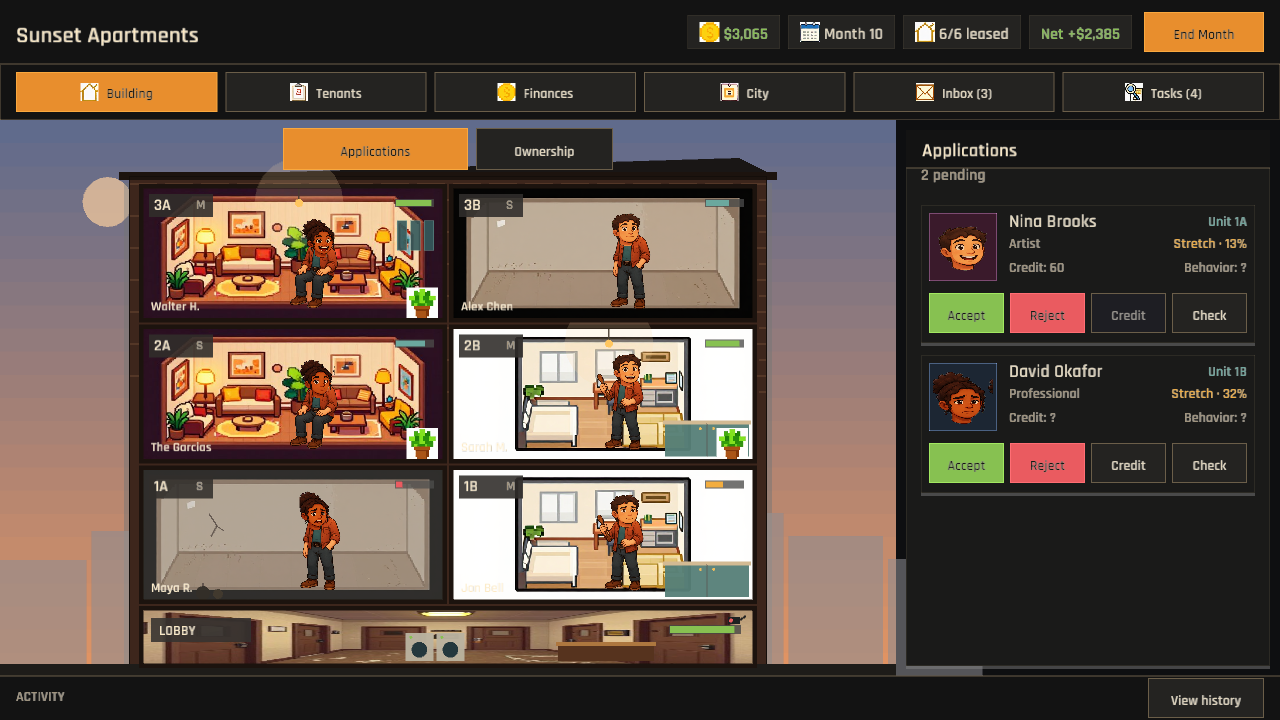
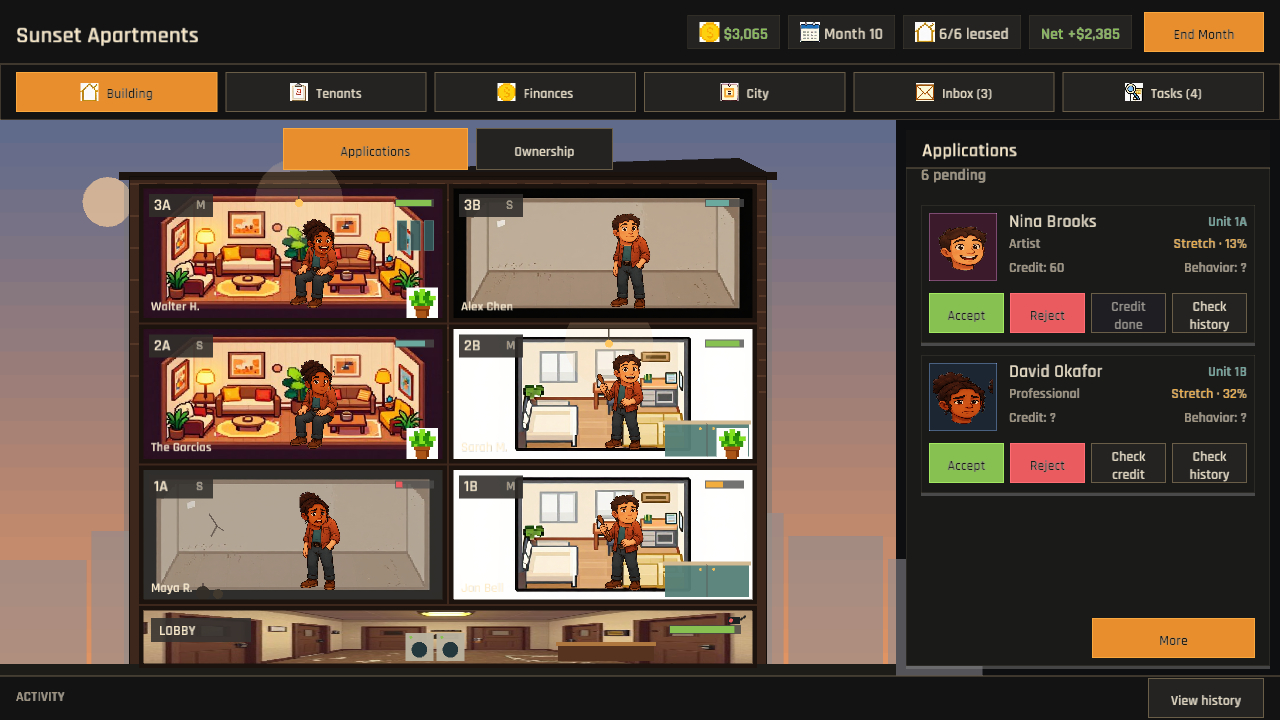
Every applicant reaches the leasing desk before the month turns (paged screening workflow)
Replace the unreachable 'more applications' dead end with deterministic Earlier and More controls backed by transient page state. Seed six varied showcase applicants so both pages, completed checks, and unchecked states remain reviewable.

Clarify credit and history action labels, keep completed checks visibly disabled, and introduce a compact card hierarchy that prioritizes applicant name, unit, and qualification at 640x480 without overlapping metadata or touch actions.

Verified with 131 passing tests (1 ignored), first-page, later-page, and 640x480 applicant captures, formatting, diff and Rust line-count checks, and publish.ps1 for Windows, WebGL, and preview deployment.

Changed region(s): [[0.8438, 0.8556, 1.0, 0.9167], [0.8438, 0.6111, 0.9688, 0.6722], [0.8438, 0.3972, 0.9688, 0.4583]]

diff --git a/src/ui/application_panel.rs b/src/ui/application_panel.rs
@@ -10,6 +10,7 @@ pub fn draw_application_panel(
     building_id: u32,
     building: &Building,
     filter_apartment_id: Option<u32>,
+    requested_page: usize,
     offset_x: f32,
     assets: &AssetManager,
 ) -> Option<UiAction> {
@@ -47,19 +48,24 @@ pub fn draw_application_panel(
     );
     y += 25.0;
 
+    let available_h = panel_rect.bottom() - y - 50.0;
+    let action_width = panel_rect.w - 46.0;
+    let columns = if action_width >= 4.0 * 54.0 + 3.0 * 6.0 {
+        4
+    } else {
+        2
+    };
+    let card_h = 88.0 + 4_usize.div_ceil(columns) as f32 * 46.0 + 4.0;
+    let page_size = ((available_h / (card_h + 12.0)).floor() as usize).max(1);
+    let page_count = filtered_apps.len().div_ceil(page_size).max(1);
+    let page = requested_page.min(page_count - 1);
     let mut action = None;
-    for (index, application) in filtered_apps {
-        if y > panel_rect.y + panel_rect.h - 60.0 {
-            draw_ui_text(
-                "... more applications",
-                content_x,
-                y,
-                14.0,
-                colors::TEXT_DIM(),
-            );
-            break;
-        }
-
+    for (index, application) in filtered_apps
+        .iter()
+        .skip(page * page_size)
+        .take(page_size)
+        .copied()
+    {
         let (card_action, card_h) = draw_application_card(
             index,
             application,
@@ -73,6 +79,33 @@ pub fn draw_application_panel(
             action = card_action;
         }
         y += card_h + 12.0;
+    }
+    if page_count > 1 {
+        use crate::ui::theme::Tone;
+        use crate::ui::widgets::button_at;
+        let controls_y = panel_rect.bottom() - 48.0;
+        let gap = 8.0;
+        let button_w = (panel_rect.w - 30.0 - gap) * 0.5;
+        if page > 0
+            && button_at(
+                Rect::new(content_x, controls_y, button_w, 40.0),
+                "Earlier",
+                true,
+                Tone::Secondary,
+            )
+        {
+            action = Some(UiAction::SetApplicationPage { page: page - 1 });
+        }
+        if page + 1 < page_count
+            && button_at(
+                Rect::new(content_x + button_w + gap, controls_y, button_w, 40.0),
+                "More",
+                true,
+                Tone::Primary,
+            )
+        {
+            action = Some(UiAction::SetApplicationPage { page: page + 1 });
+        }
     }
 
     action
@@ -138,8 +171,9 @@ fn draw_application_card(
     use crate::ui::theme::Tone;
     use crate::ui::widgets::button_at;
 
-    let portrait_size = 68.0;
-    let text_x = x + portrait_size + 20.0;
+    let compact = width < 260.0;
+    let portrait_size = if compact { 60.0 } else { 68.0 };
+    let text_x = x + portrait_size + if compact { 16.0 } else { 20.0 };
 
     let btn_y = y + 88.0;
     let bh = 40.0;
@@ -173,7 +207,14 @@ fn draw_application_card(
             archetype_color(&application.tenant.archetype),
         );
     }
-    draw_application_text(application, building, text_x, y, x + width - 8.0 - text_x);
+    draw_application_text(
+        application,
+        building,
+        text_x,
+        y,
+        x + width - 8.0 - text_x,
+        compact,
+    );
 
     let specs: [(&str, bool, Tone, UiAction); 4] = [
         (
@@ -193,7 +234,11 @@ fn draw_application_card(
             },
         ),
         (
-            "Credit",
+            if application.revealed_reliability {
+                "Credit done"
+            } else {
+                "Check credit"
+            },
             !application.revealed_reliability,
             Tone::Secondary,
             UiAction::CreditCheck {
@@ -201,7 +246,11 @@ fn draw_application_card(
             },
         ),
         (
-            "Check",
+            if application.revealed_behavior {
+                "History done"
+            } else {
+                "Check history"
+            },
             !application.revealed_behavior,
             Tone::Secondary,
             UiAction::BackgroundCheck {
@@ -230,6 +279,7 @@ fn draw_application_text(
     text_x: f32,
     y: f32,
     text_width: f32,
+    compact: bool,
 ) {
     use macroquad_toolkit::ui::{measure_ui_text, truncate_text_to_width};
 
@@ -238,6 +288,36 @@ fn draw_application_text(
         .map(|apartment| format!("Unit {}", apartment.unit_number))
         .unwrap_or_else(|| "Unknown unit".to_string());
     let unit_w = measure_ui_text(&unit, None, 14, 1.0).width;
+    if compact {
+        draw_ui_text(
+            &truncate_text_to_width(&application.tenant.name, text_width, 18.0),
+            text_x,
+            y + 22.0,
+            18.0,
+            colors::TEXT(),
+        );
+        draw_ui_text(&unit, text_x, y + 43.0, 14.0, colors::ACCENT());
+        let fit_text = if application.match_result.meets_minimum {
+            format!("Qualified · {}%", application.match_result.score)
+        } else {
+            format!("Stretch · {}%", application.match_result.score)
+        };
+        let score_color = if application.match_result.score >= 70 {
+            colors::POSITIVE()
+        } else if application.match_result.score >= 50 {
+            colors::ACCENT()
+        } else {
+            colors::WARNING()
+        };
+        draw_ui_text(
+            &truncate_text_to_width(&fit_text, text_width, 14.0),
+            text_x,
+            y + 65.0,
+            14.0,
+            score_color,
+        );
+        return;
+    }
     draw_ui_text(
         &truncate_text_to_width(
             &application.tenant.name,

diff --git a/src/game.rs b/src/game.rs
@@ -92,6 +92,13 @@ impl Game {
                     state.selection = crate::ui::Selection::Applications(None);
                 }
             }
+            "applications_more_showcase" | "applications_more_tiny" => {
+                self.seed_gameplay_capture(true);
+                if let GameState::Gameplay(state) = &mut self.state {
+                    state.selection = crate::ui::Selection::Applications(None);
+                    state.application_page = 1;
+                }
+            }
             "ownership_showcase" | "ownership_compact" | "ownership_wide" | "ownership_tiny" => {
                 self.seed_gameplay_capture(true);
                 if let GameState::Gameplay(state) = &mut self.state {
@@ -462,6 +469,17 @@ fn seed_showcase_residents(state: &mut crate::state::GameplayState) {
             "David Okafor",
             TenantArchetype::Professional,
             1,
+            false,
+            false,
+        ),
+        (22, "Priya Shah", TenantArchetype::Student, 2, true, true),
+        (23, "Elena Ruiz", TenantArchetype::Family, 3, false, true),
+        (24, "George Wu", TenantArchetype::Elderly, 4, true, false),
+        (
+            25,
+            "Amara Mensah",
+            TenantArchetype::Professional,
+            5,
             false,
             false,
         ),

diff --git a/src/state/gameplay.rs b/src/state/gameplay.rs
@@ -131,6 +131,8 @@ pub struct GameplayState {
     #[serde(skip)]
     pub pending_property_purchase: Option<u32>,
     #[serde(skip)]
+    pub application_page: usize,
+    #[serde(skip)]
     pub show_pause_menu: bool,
     #[serde(skip)]
     pub activity_drawer_open: bool,
@@ -291,6 +293,7 @@ impl GameplayState {
             market_page: 0,
             selected_neighborhood_id: None,
             pending_property_purchase: None,
+            application_page: 0,
             show_pause_menu: false,
             activity_drawer_open: false,
             is_fullscreen: false,
@@ -389,6 +392,7 @@ impl GameplayState {
         self.market_page = 0;
         self.selected_neighborhood_id = None;
         self.pending_property_purchase = None;
+        self.application_page = 0;
         self.show_pause_menu = false;
         self.activity_drawer_open = false;
         self.pending_quit_to_menu = false;

diff --git a/src/state/gameplay_actions.rs b/src/state/gameplay_actions.rs
@@ -24,6 +24,7 @@ impl GameplayState {
                 self.view_mode = ViewMode::Building;
                 self.selection = Selection::Applications(filter);
                 self.panel_scroll_offset = 0.0;
+                self.application_page = 0;
             }
             UiAction::SelectHallway => {
                 self.selection = Selection::Hallway;
@@ -322,6 +323,9 @@ impl GameplayState {
             }
             UiAction::SetTasksPage { page } => {
                 self.tasks_page = page;
+            }
+            UiAction::SetApplicationPage { page } => {
+                self.application_page = page;
             }
             UiAction::AcceptMission { mission_id } => {
                 if !self.missions.accept_mission(mission_id, self.current_tick) {

diff --git a/src/state/gameplay_views.rs b/src/state/gameplay_views.rs
@@ -242,6 +242,7 @@ impl GameplayState {
                     self.active_building_id(),
                     &self.building,
                     filter,
+                    self.application_page,
                     0.0,
                     assets,
                 ) {

diff --git a/src/ui.rs b/src/ui.rs
@@ -105,6 +105,9 @@ pub enum UiAction {
     SetTasksPage {
         page: usize,
     },
+    SetApplicationPage {
+        page: usize,
+    },
     AcceptMission {
         mission_id: u32,
     },
